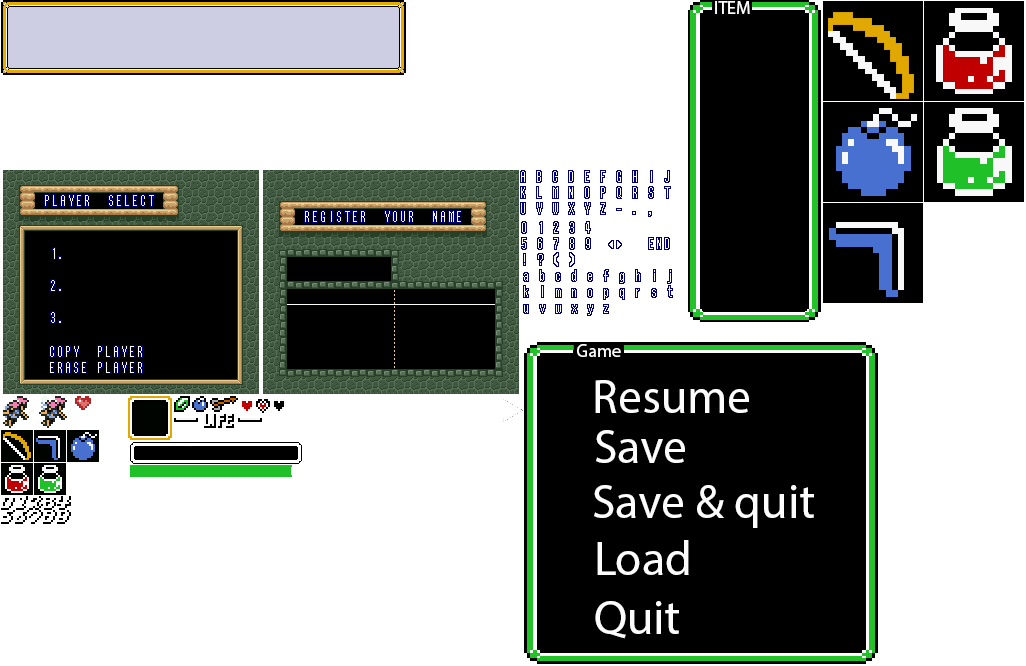
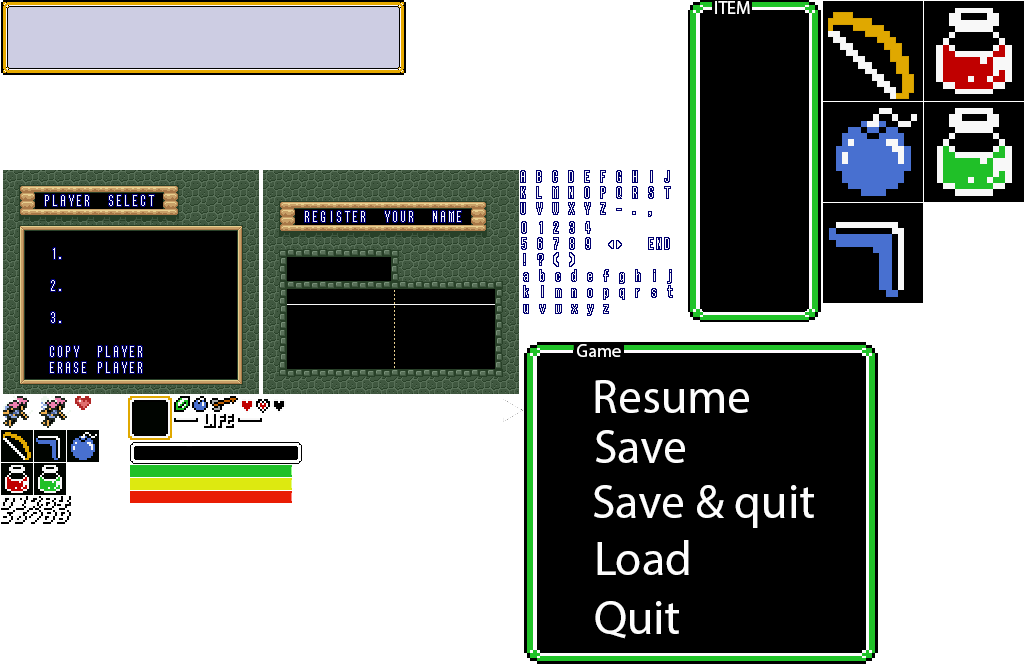
Added Stamina change color

Changed region(s): [[0.1248, 0.7207, 0.3119, 0.7808]]

diff --git a/Motor2D/HUD.cpp b/Motor2D/HUD.cpp
@@ -62,6 +62,8 @@ bool Hud::CleanUp()
 
 	RELEASE(stamina_container);
 	RELEASE(stamina_green);
+	RELEASE(stamina_yellow);
+	RELEASE(stamina_red);
 
 	return true;
 }
@@ -289,6 +291,8 @@ bool Hud::LoadHud(string file)
 
 		stamina_container = (UI_Image*)App->gui->Add_element(IMAGE, App->game);
 		stamina_green = (UI_Image*)App->gui->Add_element(IMAGE, App->game);
+		stamina_yellow = (UI_Image*)App->gui->Add_element(IMAGE, App->game);
+		stamina_red = (UI_Image*)App->gui->Add_element(IMAGE, App->game);
 		stamina_bar = (UI_Stamina*)App->gui->Add_element(STAMINA_BAR, App->game);
 
 		pugi::xml_node hud_node = hud_file.child("images");
@@ -312,8 +316,9 @@ bool Hud::LoadHud(string file)
 
 		//stamina
 		stamina_container->Set_Image_Texture(LoadRect(hud_node.child("stamina").child("bar")));
-		stamina_green->Set_Image_Texture(LoadRect(hud_node.child("stamina").child("sta")));
-
+		stamina_green->Set_Image_Texture(LoadRect(hud_node.child("stamina").child("sta_g")));
+		stamina_yellow->Set_Image_Texture(LoadRect(hud_node.child("stamina").child("sta_y")));
+		stamina_red->Set_Image_Texture(LoadRect(hud_node.child("stamina").child("sta_r")));
 
 		SetHudElements();
 

diff --git a/Motor2D/UI_Stamina.cpp b/Motor2D/UI_Stamina.cpp
@@ -3,6 +3,7 @@
 #include "j1Gui.h"
 #include "j1GameLayer.h"
 #include "j1EntityManager.h"
+#include "HUD.h"
 #include "Player.h"
 #include "j1App.h"
 
@@ -85,12 +86,33 @@ void UI_Stamina::RecoverStamina()
 	
 	int percent_stamina = (App->game->em->player->stamina * 100) / App->game->em->player->maxStamina;
 
+	
+	ChangeColor(percent_stamina);
+	
 	//magic numbers :c
 	int image_width = 160;
 
 	int move_to = 160 - ((percent_stamina * image_width) / 100);
 
 	move_rect.x = draw_rect.x - move_to;
+}
+
+void UI_Stamina::ChangeColor(int percent)
+{
+	if (percent < 40)
+	{
+		if (percent < 15)
+		{
+			SetStamina(App->game->hud->stamina_red);
+			return;
+		}	
+		SetStamina(App->game->hud->stamina_yellow);
+		return;
+	}
+
+	if(stamina != App->game->hud->stamina_green)
+		SetStamina(App->game->hud->stamina_green);
+
 }
 
 void UI_Stamina::PrintBar()

diff --git a/Motor2D/HUD.h b/Motor2D/HUD.h
@@ -69,6 +69,9 @@ public:
 	//Stamina images
 	UI_Image*		stamina_container = nullptr; //Image not in gui
 	UI_Image*		stamina_green = nullptr; //Image not in gui
+	UI_Image*		stamina_yellow = nullptr; //Image not in gui
+	UI_Image*		stamina_red = nullptr; //Image not in gui
+
 	UI_Stamina*		stamina_bar = nullptr;
 
 	//Pause Elements

diff --git a/Motor2D/UI_Stamina.h b/Motor2D/UI_Stamina.h
@@ -4,7 +4,6 @@
 #include "UI_element.h"
 #include "UI_Image.h"
 
-
 class UI_Stamina : public UI_element
 {
 public:
@@ -20,6 +19,7 @@ public:
 
 	void		WasteStamina(int);
 	void		RecoverStamina();
+	void		ChangeColor(int);
 
 	SDL_Rect	move_rect;
 
